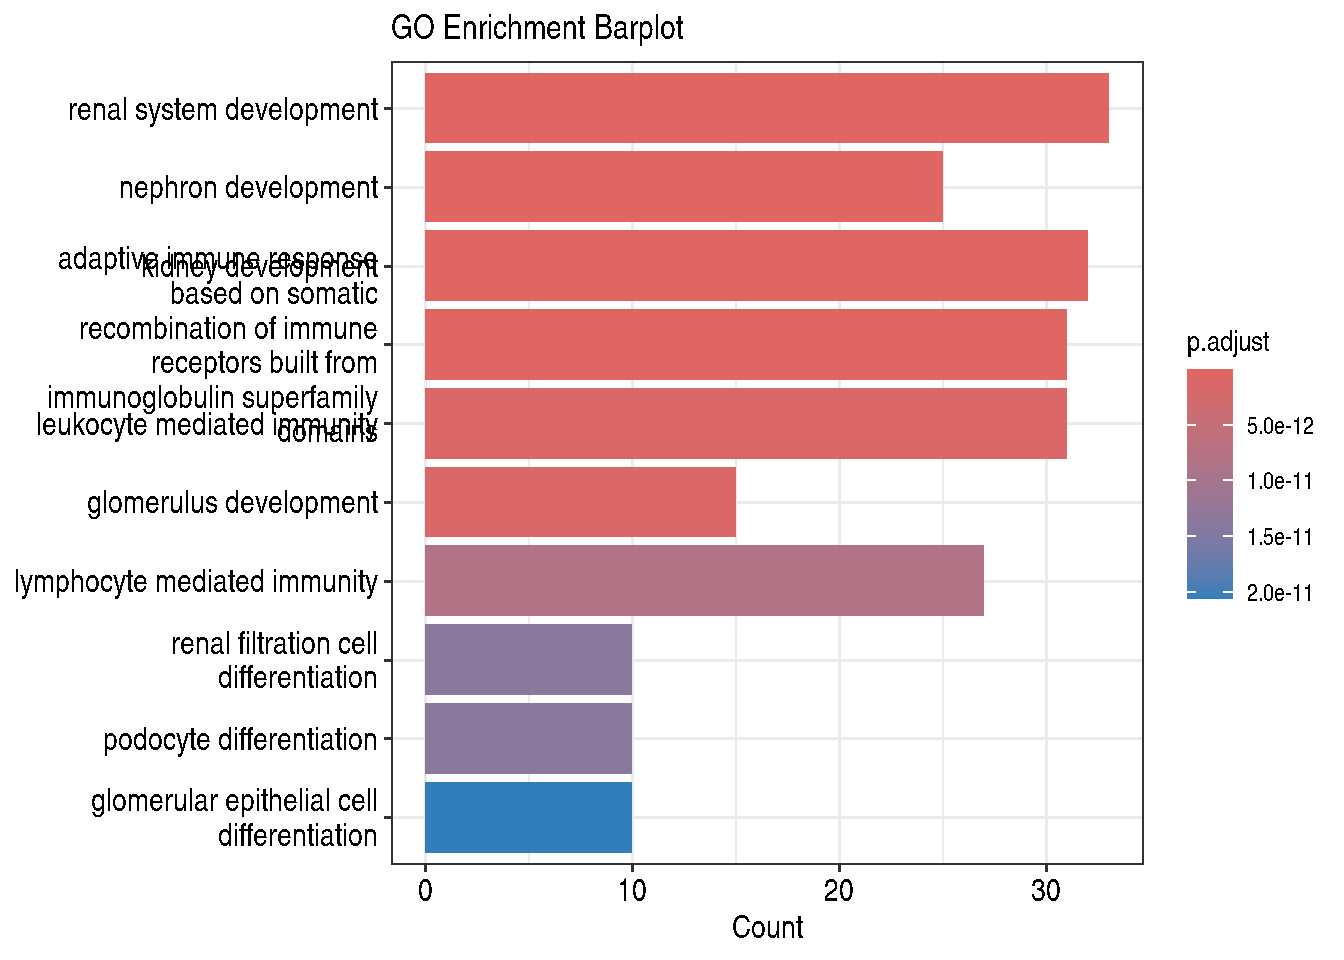
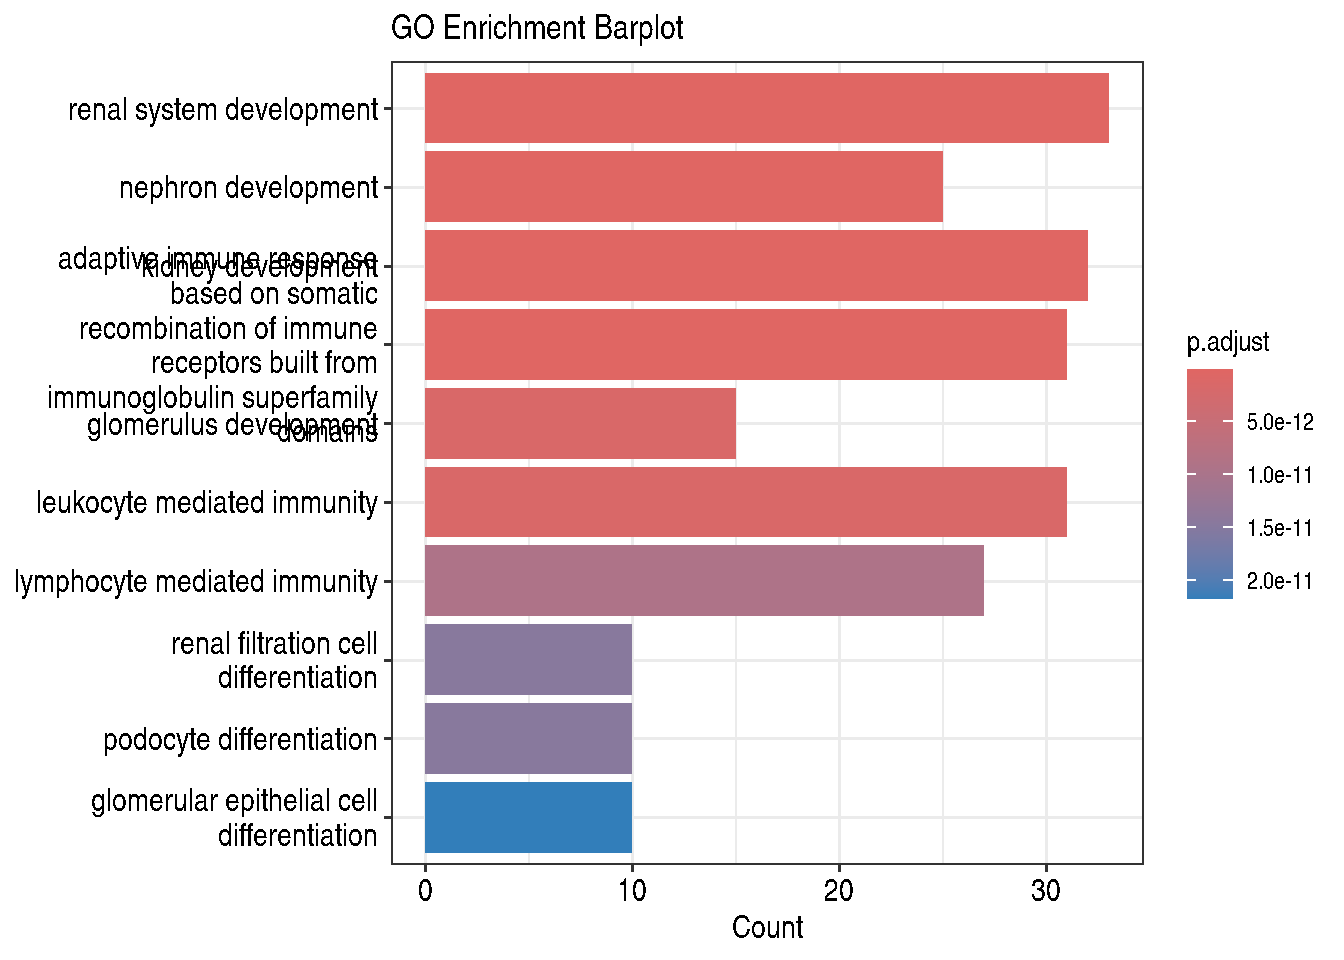
windows installation of curl via openssh  added

diff --git a/docs/minimal_analysis.html b/docs/minimal_analysis.html
@@ -232,36 +232,40 @@ pre > code.sourceCode > span > a:first-child::before { text-decoration: underlin
 <p>Una <strong>Interfaz de Programación de Aplicaciones (API)</strong> permite que diferentes aplicaciones de software se comuniquen entre sí. En nuestro caso, nos permite acceder programáticamente a datos de la HPO. Puedes usar una API para obtener automáticamente la lista de genes sin tener que descargarla manualmente. PUEDES USAR OTRAS LENGUAJES DE PROGAMACION SI PREFERIS</p>
 <p>Para usar la API, aquí hay un ejemplo de cómo obtener genes programáticamente. Primero, necesitamos instalar y cargar las bibliotecas necesarias:</p>
 <div class="cell">
-<div class="sourceCode cell-code" id="cb1"><pre class="sourceCode r code-with-copy"><code class="sourceCode r"><span id="cb1-1"><a href="#cb1-1" aria-hidden="true" tabindex="-1"></a><span class="co"># Install necessary packages if not already installed</span></span>
-<span id="cb1-2"><a href="#cb1-2" aria-hidden="true" tabindex="-1"></a><span class="cf">if</span> (<span class="sc">!</span><span class="fu">requireNamespace</span>(<span class="st">"httr"</span>, <span class="at">quietly =</span> <span class="cn">TRUE</span>)) {</span>
-<span id="cb1-3"><a href="#cb1-3" aria-hidden="true" tabindex="-1"></a>  <span class="fu">install.packages</span>(<span class="st">"httr"</span>)</span>
-<span id="cb1-4"><a href="#cb1-4" aria-hidden="true" tabindex="-1"></a>}</span>
-<span id="cb1-5"><a href="#cb1-5" aria-hidden="true" tabindex="-1"></a><span class="cf">if</span> (<span class="sc">!</span><span class="fu">requireNamespace</span>(<span class="st">"jsonlite"</span>, <span class="at">quietly =</span> <span class="cn">TRUE</span>)) {</span>
-<span id="cb1-6"><a href="#cb1-6" aria-hidden="true" tabindex="-1"></a>  <span class="fu">install.packages</span>(<span class="st">"jsonlite"</span>)</span>
-<span id="cb1-7"><a href="#cb1-7" aria-hidden="true" tabindex="-1"></a>}</span>
-<span id="cb1-8"><a href="#cb1-8" aria-hidden="true" tabindex="-1"></a></span>
-<span id="cb1-9"><a href="#cb1-9" aria-hidden="true" tabindex="-1"></a><span class="fu">library</span>(httr)</span>
-<span id="cb1-10"><a href="#cb1-10" aria-hidden="true" tabindex="-1"></a><span class="fu">library</span>(jsonlite)</span>
-<span id="cb1-11"><a href="#cb1-11" aria-hidden="true" tabindex="-1"></a></span>
-<span id="cb1-12"><a href="#cb1-12" aria-hidden="true" tabindex="-1"></a><span class="co"># API request to get genes associated with the HPO term for abnormal renal corpuscle morphology</span></span>
-<span id="cb1-13"><a href="#cb1-13" aria-hidden="true" tabindex="-1"></a>hpo_id <span class="ot">&lt;-</span> <span class="st">"HP:0031263"</span>  <span class="co"># HPO ID for abnormal renal corpuscle morphology</span></span>
-<span id="cb1-14"><a href="#cb1-14" aria-hidden="true" tabindex="-1"></a></span>
-<span id="cb1-15"><a href="#cb1-15" aria-hidden="true" tabindex="-1"></a>url <span class="ot">&lt;-</span> <span class="fu">paste0</span>(<span class="st">"https://ontology.jax.org/api/network/annotation/"</span>, hpo_id)</span>
-<span id="cb1-16"><a href="#cb1-16" aria-hidden="true" tabindex="-1"></a></span>
-<span id="cb1-17"><a href="#cb1-17" aria-hidden="true" tabindex="-1"></a>response <span class="ot">&lt;-</span> <span class="fu">GET</span>(url)</span>
-<span id="cb1-18"><a href="#cb1-18" aria-hidden="true" tabindex="-1"></a>data <span class="ot">&lt;-</span> <span class="fu">content</span>(response, <span class="at">as =</span> <span class="st">"text"</span>, <span class="at">encoding =</span> <span class="st">"UTF-8"</span>)</span>
-<span id="cb1-19"><a href="#cb1-19" aria-hidden="true" tabindex="-1"></a>genes <span class="ot">&lt;-</span> <span class="fu">fromJSON</span>(data)<span class="sc">$</span>genes</span>
+<div class="sourceCode cell-code" id="cb1"><pre class="sourceCode r code-with-copy"><code class="sourceCode r"><span id="cb1-1"><a href="#cb1-1" aria-hidden="true" tabindex="-1"></a><span class="co"># If you are using Windows, your computer may have problems accessing servers</span></span>
+<span id="cb1-2"><a href="#cb1-2" aria-hidden="true" tabindex="-1"></a><span class="co">#Sys.setenv(CURL_SSL_BACKEND = "openssl") # Necessary step to reinstall curl for use in Windows</span></span>
+<span id="cb1-3"><a href="#cb1-3" aria-hidden="true" tabindex="-1"></a><span class="co">#install.packages("curl", force=TRUE, dependencies = TRUE)</span></span>
+<span id="cb1-4"><a href="#cb1-4" aria-hidden="true" tabindex="-1"></a></span>
+<span id="cb1-5"><a href="#cb1-5" aria-hidden="true" tabindex="-1"></a><span class="co"># Install necessary packages if not already installed</span></span>
+<span id="cb1-6"><a href="#cb1-6" aria-hidden="true" tabindex="-1"></a><span class="cf">if</span> (<span class="sc">!</span><span class="fu">requireNamespace</span>(<span class="st">"httr"</span>, <span class="at">quietly =</span> <span class="cn">TRUE</span>)) {</span>
+<span id="cb1-7"><a href="#cb1-7" aria-hidden="true" tabindex="-1"></a>  <span class="fu">install.packages</span>(<span class="st">"httr"</span>)</span>
+<span id="cb1-8"><a href="#cb1-8" aria-hidden="true" tabindex="-1"></a>}</span>
+<span id="cb1-9"><a href="#cb1-9" aria-hidden="true" tabindex="-1"></a><span class="cf">if</span> (<span class="sc">!</span><span class="fu">requireNamespace</span>(<span class="st">"jsonlite"</span>, <span class="at">quietly =</span> <span class="cn">TRUE</span>)) {</span>
+<span id="cb1-10"><a href="#cb1-10" aria-hidden="true" tabindex="-1"></a>  <span class="fu">install.packages</span>(<span class="st">"jsonlite"</span>)</span>
+<span id="cb1-11"><a href="#cb1-11" aria-hidden="true" tabindex="-1"></a>}</span>
+<span id="cb1-12"><a href="#cb1-12" aria-hidden="true" tabindex="-1"></a></span>
+<span id="cb1-13"><a href="#cb1-13" aria-hidden="true" tabindex="-1"></a><span class="fu">library</span>(httr)</span>
+<span id="cb1-14"><a href="#cb1-14" aria-hidden="true" tabindex="-1"></a><span class="fu">library</span>(jsonlite)</span>
+<span id="cb1-15"><a href="#cb1-15" aria-hidden="true" tabindex="-1"></a></span>
+<span id="cb1-16"><a href="#cb1-16" aria-hidden="true" tabindex="-1"></a><span class="co"># API request to get genes associated with the HPO term for abnormal renal corpuscle morphology</span></span>
+<span id="cb1-17"><a href="#cb1-17" aria-hidden="true" tabindex="-1"></a>hpo_id <span class="ot">&lt;-</span> <span class="st">"HP:0031263"</span>  <span class="co"># HPO ID for abnormal renal corpuscle morphology</span></span>
+<span id="cb1-18"><a href="#cb1-18" aria-hidden="true" tabindex="-1"></a></span>
+<span id="cb1-19"><a href="#cb1-19" aria-hidden="true" tabindex="-1"></a>url <span class="ot">&lt;-</span> <span class="fu">paste0</span>(<span class="st">"https://ontology.jax.org/api/network/annotation/"</span>, hpo_id)</span>
 <span id="cb1-20"><a href="#cb1-20" aria-hidden="true" tabindex="-1"></a></span>
-<span id="cb1-21"><a href="#cb1-21" aria-hidden="true" tabindex="-1"></a><span class="co"># Display the first few genes</span></span>
-<span id="cb1-22"><a href="#cb1-22" aria-hidden="true" tabindex="-1"></a><span class="fu">head</span>(genes)</span></code><button title="Copy to Clipboard" class="code-copy-button"><i class="bi"></i></button></pre></div>
+<span id="cb1-21"><a href="#cb1-21" aria-hidden="true" tabindex="-1"></a>response <span class="ot">&lt;-</span> <span class="fu">GET</span>(url)</span>
+<span id="cb1-22"><a href="#cb1-22" aria-hidden="true" tabindex="-1"></a>data <span class="ot">&lt;-</span> <span class="fu">content</span>(response, <span class="at">as =</span> <span class="st">"text"</span>, <span class="at">encoding =</span> <span class="st">"UTF-8"</span>)</span>
+<span id="cb1-23"><a href="#cb1-23" aria-hidden="true" tabindex="-1"></a>genes <span class="ot">&lt;-</span> <span class="fu">fromJSON</span>(data)<span class="sc">$</span>genes</span>
+<span id="cb1-24"><a href="#cb1-24" aria-hidden="true" tabindex="-1"></a></span>
+<span id="cb1-25"><a href="#cb1-25" aria-hidden="true" tabindex="-1"></a><span class="co"># Display the first few genes</span></span>
+<span id="cb1-26"><a href="#cb1-26" aria-hidden="true" tabindex="-1"></a><span class="fu">head</span>(genes)</span></code><button title="Copy to Clipboard" class="code-copy-button"><i class="bi"></i></button></pre></div>
 <div class="cell-output cell-output-stdout">
-<pre><code>              id  name
-1  NCBIGene:2335   FN1
-2  NCBIGene:4311   MME
-3  NCBIGene:7369  UMOD
-4 NCBIGene:55644 OSGEP
-5 NCBIGene:11277 TREX1
-6 NCBIGene:57728 WDR19</code></pre>
+<pre><code>                  id   name
+1     NCBIGene:81494  CFHR5
+2 NCBIGene:100147744 RNU7-1
+3      NCBIGene:9722 NOS1AP
+4      NCBIGene:7369   UMOD
+5      NCBIGene:2625  GATA3
+6      NCBIGene:1287 COL4A5</code></pre>
 </div>
 <div class="sourceCode cell-code" id="cb3"><pre class="sourceCode r code-with-copy"><code class="sourceCode r"><span id="cb3-1"><a href="#cb3-1" aria-hidden="true" tabindex="-1"></a><span class="co"># Display all the genes (uncomment)</span></span>
 <span id="cb3-2"><a href="#cb3-2" aria-hidden="true" tabindex="-1"></a><span class="co"># print(genes)</span></span></code><button title="Copy to Clipboard" class="code-copy-button"><i class="bi"></i></button></pre></div>
@@ -361,11 +365,11 @@ Attaching package: 'igraph'</code></pre>
 <span id="cb15-4"><a href="#cb15-4" aria-hidden="true" tabindex="-1"></a></span>
 <span id="cb15-5"><a href="#cb15-5" aria-hidden="true" tabindex="-1"></a><span class="fu">cat</span>(<span class="st">"Number of nodes:"</span>, num_nodes, <span class="st">"</span><span class="sc">\n</span><span class="st">"</span>)</span></code><button title="Copy to Clipboard" class="code-copy-button"><i class="bi"></i></button></pre></div>
 <div class="cell-output cell-output-stdout">
-<pre><code>Number of nodes: 151 </code></pre>
+<pre><code>Number of nodes: 152 </code></pre>
 </div>
 <div class="sourceCode cell-code" id="cb17"><pre class="sourceCode r code-with-copy"><code class="sourceCode r"><span id="cb17-1"><a href="#cb17-1" aria-hidden="true" tabindex="-1"></a><span class="fu">cat</span>(<span class="st">"Number of edges:"</span>, num_edges, <span class="st">"</span><span class="sc">\n</span><span class="st">"</span>)</span></code><button title="Copy to Clipboard" class="code-copy-button"><i class="bi"></i></button></pre></div>
 <div class="cell-output cell-output-stdout">
-<pre><code>Number of edges: 334 </code></pre>
+<pre><code>Number of edges: 336 </code></pre>
 </div>
 </div>
 </section>
@@ -380,7 +384,7 @@ Attaching package: 'igraph'</code></pre>
 <span id="cb19-5"><a href="#cb19-5" aria-hidden="true" tabindex="-1"></a>average_degree <span class="ot">&lt;-</span> <span class="fu">mean</span>(degree_values)</span>
 <span id="cb19-6"><a href="#cb19-6" aria-hidden="true" tabindex="-1"></a><span class="fu">cat</span>(<span class="st">"Average degree of all nodes:"</span>, average_degree, <span class="st">"</span><span class="sc">\n</span><span class="st">"</span>)</span></code><button title="Copy to Clipboard" class="code-copy-button"><i class="bi"></i></button></pre></div>
 <div class="cell-output cell-output-stdout">
-<pre><code>Average degree of all nodes: 4.423841 </code></pre>
+<pre><code>Average degree of all nodes: 4.421053 </code></pre>
 </div>
 </div>
 </section>
@@ -392,7 +396,7 @@ Attaching package: 'igraph'</code></pre>
 <span id="cb21-2"><a href="#cb21-2" aria-hidden="true" tabindex="-1"></a>network_density <span class="ot">&lt;-</span> <span class="fu">edge_density</span>(g)</span>
 <span id="cb21-3"><a href="#cb21-3" aria-hidden="true" tabindex="-1"></a><span class="fu">cat</span>(<span class="st">"Network density:"</span>, network_density, <span class="st">"</span><span class="sc">\n</span><span class="st">"</span>)</span></code><button title="Copy to Clipboard" class="code-copy-button"><i class="bi"></i></button></pre></div>
 <div class="cell-output cell-output-stdout">
-<pre><code>Network density: 0.02949227 </code></pre>
+<pre><code>Network density: 0.02927849 </code></pre>
 </div>
 </div>
 </section>
@@ -406,7 +410,7 @@ Attaching package: 'igraph'</code></pre>
 <span id="cb23-4"><a href="#cb23-4" aria-hidden="true" tabindex="-1"></a><span class="co"># Show results</span></span>
 <span id="cb23-5"><a href="#cb23-5" aria-hidden="true" tabindex="-1"></a><span class="fu">cat</span>(<span class="st">"Closeness Centrality (first 5 nodos):"</span>, <span class="fu">head</span>(centrality_closeness, <span class="dv">5</span>), <span class="st">"</span><span class="sc">\n</span><span class="st">"</span>)</span></code><button title="Copy to Clipboard" class="code-copy-button"><i class="bi"></i></button></pre></div>
 <div class="cell-output cell-output-stdout">
-<pre><code>Closeness Centrality (first 5 nodos): 0.1666667 0.003003003 0.003378378 0.1666667 0.00310559 </code></pre>
+<pre><code>Closeness Centrality (first 5 nodos): 0.1666667 0.00295858 0.003344482 0.1666667 0.003067485 </code></pre>
 </div>
 </div>
 </section>
@@ -543,10 +547,9 @@ semi-transparency is not supported on this device: reported only once per page</
 
 Please cite:
 
-T Wu, E Hu, S Xu, M Chen, P Guo, Z Dai, T Feng, L Zhou, W Tang, L Zhan,
-X Fu, S Liu, X Bo, and G Yu. clusterProfiler 4.0: A universal
-enrichment tool for interpreting omics data. The Innovation. 2021,
-2(3):100141</code></pre>
+S Xu, E Hu, Y Cai, Z Xie, X Luo, L Zhan, W Tang, Q Wang, B Liu, R Wang,
+W Xie, T Wu, L Xie, G Yu. Using clusterProfiler to characterize
+multiomics data. Nature Protocols. 2024, 19(11):3292-3320</code></pre>
 </div>
 <div class="cell-output cell-output-stderr">
 <pre><code>
@@ -695,43 +698,43 @@ GO:0072001 GO:0072001
 GO:0072006 GO:0072006
 GO:0001822 GO:0001822
 GO:0002460 GO:0002460
-GO:0002443 GO:0002443
 GO:0032835 GO:0032835
+GO:0002443 GO:0002443
                                                                                                                          Description
 GO:0072001                                                                                                  renal system development
 GO:0072006                                                                                                       nephron development
 GO:0001822                                                                                                        kidney development
 GO:0002460 adaptive immune response based on somatic recombination of immune receptors built from immunoglobulin superfamily domains
-GO:0002443                                                                                               leukocyte mediated immunity
 GO:0032835                                                                                                    glomerulus development
+GO:0002443                                                                                               leukocyte mediated immunity
            GeneRatio   BgRatio RichFactor FoldEnrichment   zScore       pvalue
-GO:0072001    33/206 336/18805 0.09821429       8.965629 15.50536 4.750250e-22
-GO:0072006    25/206 161/18805 0.15527950      14.174908 17.66871 8.177251e-22
-GO:0001822    32/206 325/18805 0.09846154       8.988200 15.28810 1.966311e-21
-GO:0002460    31/206 396/18805 0.07828283       7.146158 13.00919 7.020551e-18
-GO:0002443    31/206 483/18805 0.06418219       5.858962 11.38530 1.853153e-15
-GO:0032835    15/206  73/18805 0.20547945      18.757481 15.99796 1.954155e-15
+GO:0072001    33/207 336/18805 0.09821429       8.922317 15.45886 5.562061e-22
+GO:0072006    25/207 161/18805 0.15527950      14.106430 17.61996 9.235263e-22
+GO:0001822    32/207 325/18805 0.09846154       8.944779 15.24227 2.290441e-21
+GO:0002460    31/207 396/18805 0.07828283       7.111636 12.96782 8.100770e-18
+GO:0032835    15/207  73/18805 0.20547945      18.666865 15.95534 2.100682e-15
+GO:0002443    31/207 483/18805 0.06418219       5.830658 11.34673 2.128505e-15
                p.adjust       qvalue
-GO:0072001 1.481718e-18 1.042384e-18
-GO:0072006 1.481718e-18 1.042384e-18
-GO:0001822 2.375304e-18 1.671020e-18
-GO:0002460 6.360619e-15 4.474677e-15
-GO:0002443 1.180310e-12 8.303445e-13
-GO:0032835 1.180310e-12 8.303445e-13
+GO:0072001 1.685897e-18 1.182114e-18
+GO:0072006 1.685897e-18 1.182114e-18
+GO:0001822 2.787466e-18 1.954510e-18
+GO:0002460 7.393978e-15 5.184493e-15
+GO:0032835 1.295195e-12 9.081620e-13
+GO:0002443 1.295195e-12 9.081620e-13
                                                                                                                                                                                                     geneID
-GO:0072001 MME/UMOD/TREX1/RET/NPHS1/NF1/GATA3/COL4A4/COL4A3/WT1/FOXC2/HNF1B/NUP107/LAMB2/CD2AP/PAX2/PLCE1/NPHS2/PTPRO/NUP85/NUP133/MYO1E/LAMA5/MAGI2/NUP160/KANK2/SGPL1/REN/SEC61A1/JAG1/ITGA3/NPHP3/MYOCD
-GO:0072006                                           UMOD/RET/NPHS1/GATA3/COL4A4/COL4A3/WT1/FOXC2/HNF1B/NUP107/LAMB2/CD2AP/PAX2/PLCE1/NPHS2/PTPRO/NUP85/NUP133/MYO1E/LAMA5/MAGI2/NUP160/SEC61A1/JAG1/ITGA3
-GO:0001822       MME/UMOD/TREX1/RET/NPHS1/NF1/GATA3/COL4A4/COL4A3/WT1/FOXC2/HNF1B/NUP107/LAMB2/CD2AP/PAX2/PLCE1/NPHS2/PTPRO/NUP85/NUP133/MYO1E/LAMA5/MAGI2/NUP160/KANK2/SGPL1/REN/SEC61A1/JAG1/ITGA3/NPHP3
-GO:0002460                      TREX1/GATA3/WAS/C4A/IL10/STAT4/HLA-B/IL12A/TLR4/IL23R/EMP2/ADA/JAG1/C1QA/C3/CD81/PRKCD/JAK1/FOXP3/IGHG1/CR2/FCGR3B/TNFSF4/PDCD1/TNFAIP3/FCGR2B/C4B/HLA-DRB1/FCGR2A/CFI/IL6
-GO:0002443                 TREX1/GATA3/DNASE1L3/WAS/C4A/IL10/HLA-B/IL12A/TLR4/KLRC4/IL23R/EMP2/JAG1/C1QA/C3/CD81/PRKCD/FOXP3/IGHG1/ITGAM/CR2/DNASE1/FCGR3B/TNFSF4/PDCD1/FCGR2B/C4B/HLA-DRB1/FCGR2A/CFI/IL6
-GO:0032835                                                                                                           RET/NPHS1/COL4A4/COL4A3/WT1/FOXC2/LAMB2/CD2AP/PAX2/PLCE1/NPHS2/PTPRO/MYO1E/MAGI2/JAG1
+GO:0072001 UMOD/GATA3/COL4A4/COL4A3/LAMB2/NUP107/PLCE1/NUP160/KANK2/PTPRO/NUP85/NUP133/PAX2/LAMA5/NPHS1/MYO1E/WT1/CD2AP/MAGI2/NPHS2/SGPL1/NF1/RET/TREX1/MME/HNF1B/FOXC2/MYOCD/NPHP3/SEC61A1/JAG1/REN/ITGA3
+GO:0072006                                           UMOD/GATA3/COL4A4/COL4A3/LAMB2/NUP107/PLCE1/NUP160/PTPRO/NUP85/NUP133/PAX2/LAMA5/NPHS1/MYO1E/WT1/CD2AP/MAGI2/NPHS2/RET/HNF1B/FOXC2/SEC61A1/JAG1/ITGA3
+GO:0001822       UMOD/GATA3/COL4A4/COL4A3/LAMB2/NUP107/PLCE1/NUP160/KANK2/PTPRO/NUP85/NUP133/PAX2/LAMA5/NPHS1/MYO1E/WT1/CD2AP/MAGI2/NPHS2/SGPL1/NF1/RET/TREX1/MME/HNF1B/FOXC2/NPHP3/SEC61A1/JAG1/REN/ITGA3
+GO:0002460                      GATA3/EMP2/ADA/TREX1/PRKCD/FOXP3/JAK1/CD81/HLA-B/TLR4/STAT4/IL12A/IL10/IL23R/C4A/IL6/HLA-DRB1/CFI/C3/C1QA/WAS/JAG1/TNFAIP3/C4B/FCGR2B/TNFSF4/CR2/PDCD1/FCGR3B/IGHG1/FCGR2A
+GO:0032835                                                                                                           COL4A4/COL4A3/LAMB2/PLCE1/PTPRO/PAX2/NPHS1/MYO1E/WT1/CD2AP/MAGI2/NPHS2/RET/FOXC2/JAG1
+GO:0002443                 GATA3/EMP2/TREX1/PRKCD/FOXP3/CD81/KLRC4/HLA-B/TLR4/IL12A/IL10/IL23R/C4A/IL6/HLA-DRB1/CFI/C3/C1QA/WAS/DNASE1L3/JAG1/DNASE1/C4B/FCGR2B/TNFSF4/CR2/ITGAM/PDCD1/FCGR3B/IGHG1/FCGR2A
            Count
 GO:0072001    33
 GO:0072006    25
 GO:0001822    32
 GO:0002460    31
-GO:0002443    31
-GO:0032835    15</code></pre>
+GO:0032835    15
+GO:0002443    31</code></pre>
 </div>
 </div>
 <p>En la tabla, las filas son terminos GO, y los de mas columnas son propiedades importantes</p>
@@ -747,9 +750,8 @@ GO:0032835    15</code></pre>
 
 Please cite:
 
-Guangchuang Yu, Li-Gen Wang, and Qing-Yu He. ChIPseeker: an
-R/Bioconductor package for ChIP peak annotation, comparison and
-visualization. Bioinformatics. 2015, 31(14):2382-2383</code></pre>
+G Yu. Thirteen years of clusterProfiler. The Innovation. 2024,
+5(6):100722</code></pre>
 </div>
 <div class="sourceCode cell-code" id="cb71"><pre class="sourceCode r code-with-copy"><code class="sourceCode r"><span id="cb71-1"><a href="#cb71-1" aria-hidden="true" tabindex="-1"></a><span class="co"># Dotplot to visualize enriched GO terms</span></span>
 <span id="cb71-2"><a href="#cb71-2" aria-hidden="true" tabindex="-1"></a><span class="fu">dotplot</span>(enrich_results, <span class="at">showCategory =</span> <span class="dv">10</span>, <span class="at">title =</span> <span class="st">"GO Enrichment for Abnormal Renal Corpuscle Morphology"</span>)</span></code><button title="Copy to Clipboard" class="code-copy-button"><i class="bi"></i></button></pre></div>
@@ -821,7 +823,7 @@ $`2`
  [8] "LAMB2"   "CD151"   "ACSL4"   "KCNE5"   "COL4A4" 
 
 $`3`
-[1] "C3"    "APOE"  "CFH"   "C1QA"  "CFI"   "C4A"   "CFHR5" "CR2"   "C4B"  
+[1] "C3"    "CFH"   "C1QA"  "CFI"   "C4A"   "CFHR5" "CR2"   "C4B"  
 
 $`4`
  [1] "VHL"     "CD81"    "IL23R"   "FCGR2A"  "STAT4"   "PTPN22"  "CASP10" 
@@ -844,8 +846,9 @@ $`7`
 [1] "COQ2"  "COQ8B" "COQ6"  "APTX" 
 
 $`8`
- [1] "ACTN4"   "ANLN"    "APOL1"   "TRPC6"   "KIRREL1" "CD2AP"   "LMX1B"  
- [8] "NPHS2"   "PLCE1"   "PAX2"    "NPHS1"   "WT1"     "INF2"   
+ [1] "ACTN4"   "APOE"    "APOL1"   "ANLN"    "TRPC6"   "KIRREL1" "CD2AP"  
+ [8] "LMX1B"   "NPHS2"   "PLCE1"   "PAX2"    "NPHS1"   "APOA4"   "WT1"    
+[15] "INF2"   
 
 $`9`
 [1] "BLK"   "BANK1"
